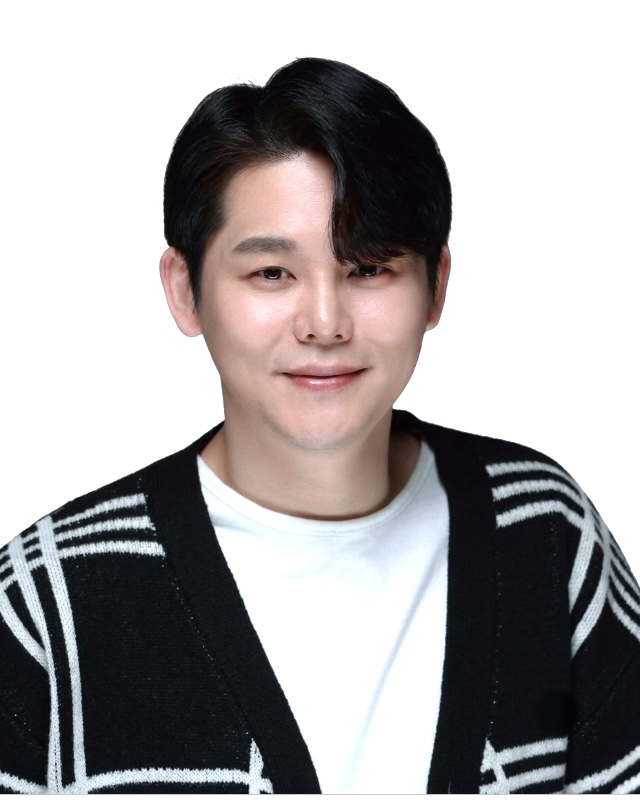
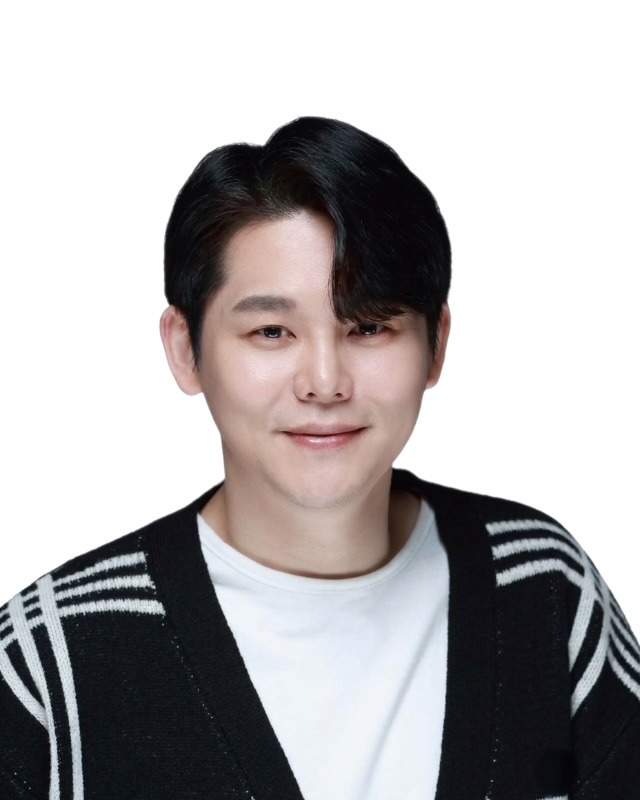
류성훈·장의순·최현재 사진 이태형 크기에 맞춤

diff --git a/index.html b/index.html
@@ -662,7 +662,7 @@ const T=[
 ];
 const list=document.getElementById('tlist');
 /* 사진: img/teachers/이름.jpg 를 PHOTO 에 적으면 사진, 없으면 성 한 글자 */
-const PHOTO={};['류성훈','이태형','장의순','김호랑','고연승','신연우','권현석','정민','홍진수','최정윤','이예섭','정지만','김현중','이창환','최현재','김경한','문지현','박정은','박남진','최한근','안민형','강윤구'].forEach(n=>PHOTO[n]='img/teachers/'+n+'.jpg?v=1126d');
+const PHOTO={};['류성훈','이태형','장의순','김호랑','고연승','신연우','권현석','정민','홍진수','최정윤','이예섭','정지만','김현중','이창환','최현재','김경한','문지현','박정은','박남진','최한근','안민형','강윤구'].forEach(n=>PHOTO[n]='img/teachers/'+n+'.jpg?v=1126e');
 /* 줄 순서: 1줄 국어 · 2줄 수학 · 3줄 영어 · 4줄 탐구 · 논술 (11/19 사장님 요청)
    같은 과목 안에서는 (탐구는 통합과학·통합사회·사탐 순으로 묶고) 사진 있는 강사 먼저, 나머지는 배열 순서 그대로 */
 const SUBJ=['국어','수학','영어','탐구','논술'];
